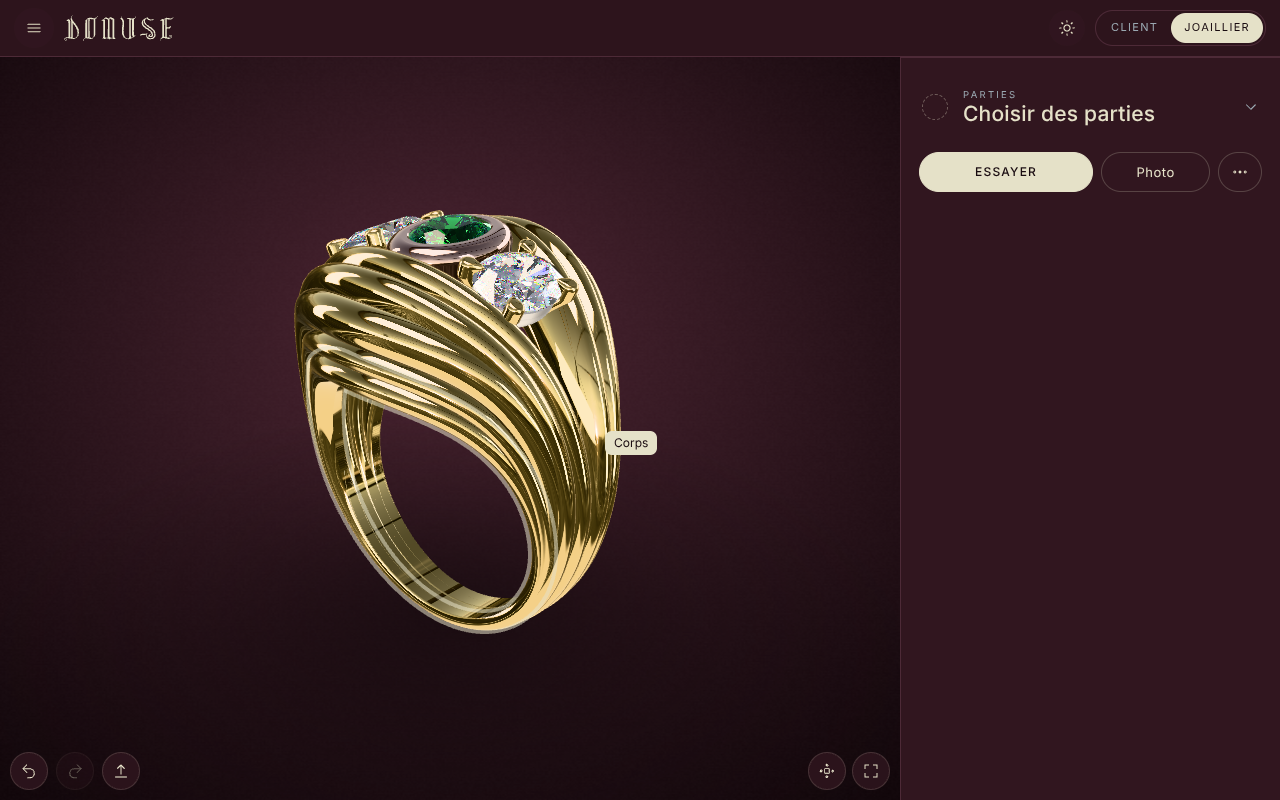
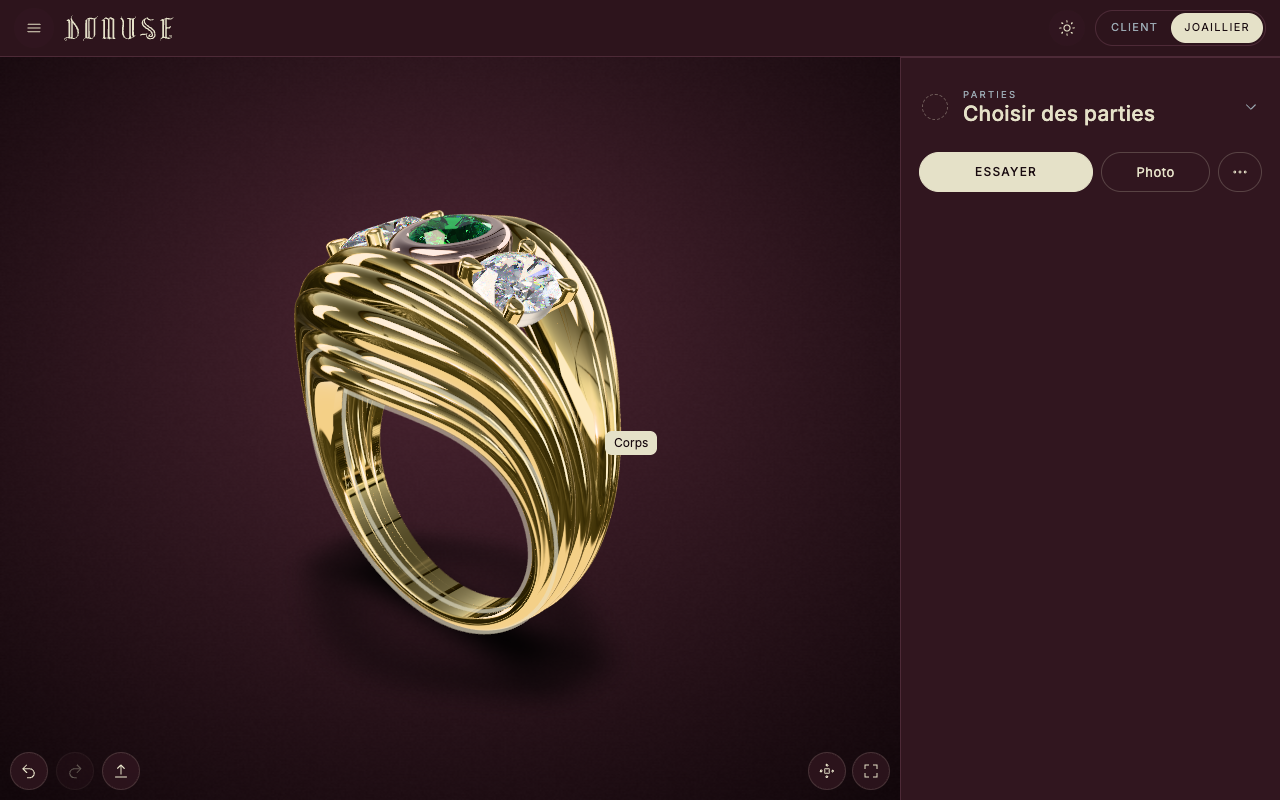
Aperçu client avec l'écrin (bouton Client) ; vignettes de projet toujours en 3/4

diff --git a/src/ui/ui.js b/src/ui/ui.js
@@ -1,7 +1,9 @@
 // Interface : mode Vitrine (acheteur / vendeur) et mode Atelier (designer). Mobile d'abord.
 import { t } from './i18n.js';
+import * as THREE from 'three';
 import { displayName } from '../cloud/name.js';
 import { workspaceBlocks, openInviteDialog, joinFlow } from './atelier.js';
+import { shouldPlayIntro, playIntro } from '../intro/intro.js';
 import { FEATURES } from '../config/features.js';
 import { CHANGELOG, CURRENT_VERSION, unseenEntries } from '../config/changelog.js';
 import { LANG } from './i18n.js';
@@ -477,7 +479,7 @@ export class UI {
       return;
     }
     const md = tgt.closest('.seg [data-mode]');
-    if (md) { this.setMode(md.dataset.mode); return; }
+    if (md) { this.userSetMode(md.dataset.mode); return; }
     const pb = tgt.closest('[data-pop-btn]');
     if (pb) { this.togglePop(pb.dataset.popBtn); return; }
     const vw = tgt.closest('[data-view]');
@@ -545,7 +547,7 @@ export class UI {
       case 'theme': this.toggleTheme(); break;
       case 'present': this.setPresent(this.el.dataset.present !== '1'); break;
       case 'present-exit': this.setPresent(false); break;
-      case 'exit-client': if (!this.locked) this.setMode(prefs.get('mode', 'vitrine') === 'atelier' ? 'atelier' : 'vitrine'); break;
+      case 'exit-client': if (!this.locked) { this.skipIntro?.(); this.setMode(prefs.get('mode', 'vitrine') === 'atelier' ? 'atelier' : 'vitrine'); } break;
       case 'dlg-close': this.dlg.close(); break;
       case 'zhide': { const z = app.zones.find((zz) => zz.pieceIds.some((id) => app.selection.has(id))); if (z) app.setHidden(z.pieceIds, !z.pieceIds.every((id) => app.hidden.has(id))); break; }
       case 'zsplit': { const z = app.zones.find((zz) => zz.pieceIds.some((id) => app.selection.has(id))); if (z) app.splitZone(z.id); break; }
@@ -605,6 +607,33 @@ export class UI {
     if (on && canFs) document.documentElement.requestFullscreen().catch(() => {});
     if (!on && document.fullscreenElement) document.exitFullscreen?.();
     for (const d of [50, 250]) setTimeout(() => this.app.viewer.resize(), d);
+  }
+
+  /**
+   * Bascule demandée par le joaillier (bouton Client / Joaillier). Vers « Client », l'écrin s'ouvre comme pour le client réel
+   * (vue d'accueil, bague assemblée, sans sélection) : le joaillier juge ainsi l'expérience complète. Retour au mode Joaillier : l'intro s'interrompt.
+   * `setMode` reste sans animation (appel programmatique, tests, ouverture d'un lien client).
+   */
+  userSetMode(m) {
+    if (m !== 'client') this.skipIntro?.();
+    const toClient = m === 'client' && this.mode !== 'client' && !this.locked;
+    this.setMode(m);
+    if (toClient) this.playClientIntro();
+  }
+
+  async playClientIntro() {
+    const app = this.app;
+    // demande explicite du joaillier : seul `?nointro` et la préférence « réduire les animations » l'écartent (pas la règle des captures de test)
+    const params = new URLSearchParams(); if (new URLSearchParams(location.search).has('nointro')) params.set('nointro', '1');
+    if (!app.model || this.introPlaying || !shouldPlayIntro(theme, params, false, true)) return;
+    this.introPlaying = true;
+    try {
+      app.exploder?.assembleNow?.(); app.clearSelection();                   // ce que voit le client : bague assemblée, rien de sélectionné
+      const v = app.viewer;
+      v.anim = null; v.controls.target.copy(v.box.getCenter(new THREE.Vector3())); v.setView([0.62, 0.45, 0.64], false); // vue d'accueil
+      await playIntro(app, this, theme);
+    } catch (e) { console.warn('Aperçu client : intro ignorée', e); }
+    finally { this.introPlaying = false; app.model && (app.model.root.visible = true); }
   }
 
   setMode(m) {
@@ -774,8 +803,8 @@ export class UI {
     if (!app.model || !s.last) return;
     const name = ($('[data-r=projname]', this.root).value || '').trim() || (app.model.meta.fileName || t('projectDefault')).replace(/\.[^.]+$/, '');
     try {
-      let thumb = null;
-      try { await withoutHighlight(app, async () => { thumb = await thumbnail(await app.viewer.capture({ scale: 1, background: BG[this.bg] })); }); } catch { /* vignette facultative */ }
+      let thumb = null; // vignette toujours en 3/4, quel que soit l'angle de la caméra du joaillier
+      try { await withoutHighlight(app, async () => { thumb = await thumbnail(await app.viewer.capture({ scale: 1, background: BG[this.bg], view: [0.62, 0.45, 0.64] })); }); } catch { /* vignette facultative */ }
       const id = asNew || !s.projectId ? newId() : s.projectId;
       await (await s.cloud()).projects.save({ id, name, modelName: s.last.name, modelId: app.modelId, options: s.options || {}, config: app.config(), env: app.viewer.envId, envRot: Math.round((app.viewer.scene.environmentRotation.y * 180) / Math.PI), thumb }, s.last.buffer);
       s.projectId = id;

diff --git a/src/core/viewer.js b/src/core/viewer.js
@@ -366,7 +366,10 @@ export class Viewer {
   }
 
   /** Capture PNG (échelle ×k, fond transparent ou rempli). Avec le pipeline : images cumulées + mise au point, comme à l'arrêt. */
-  async capture({ scale = 2, background = null } = {}) {
+  async capture({ scale = 2, background = null, view = null } = {}) {
+    // `view` (direction depuis la cible) : cadrage imposé le temps de la capture (ex. vignette en 3/4), caméra du joaillier restituée ensuite
+    const saved = view ? { pos: this.camera.position.clone(), target: this.controls.target.clone(), anim: this.anim } : null;
+    if (saved) { this.anim = null; this.controls.target.copy(this.box.getCenter(new THREE.Vector3())); this.setView(view, false); }
     const prevPR = this.renderer.getPixelRatio();
     const w = this.container.clientWidth, h = this.container.clientHeight;
     this.renderer.setPixelRatio(Math.min(scale, 3));
@@ -383,6 +386,7 @@ export class Viewer {
     ctx.drawImage(this.canvas, 0, 0);
     this.renderer.setPixelRatio(prevPR);
     this.renderer.setSize(w, h, false);
+    if (saved) { this.camera.position.copy(saved.pos); this.controls.target.copy(saved.target); this.anim = saved.anim; this.controls.update(); }
     this.fx?.reset();
     this.invalidate();
     return new Promise((res) => out.toBlob(res, 'image/png'));

diff --git a/src/intro/intro.js b/src/intro/intro.js
@@ -77,6 +77,7 @@ export async function playIntro(app, ui, theme) {
 
   const open = () => { if (state !== 'idle') return; state = 'anim'; t0 = performance.now(); hint.classList.add('gone'); startCam(); };
   const skip = () => { skipped = true; if (state === 'idle') state = 'anim'; t0 = performance.now() - 99999; hint.classList.add('gone'); };
+  ui.skipIntro = skip; // permet à l'interface d'interrompre l'introduction (ex. retour en mode Joaillier)
   // toucher la boîte (clic net, pas un glissé)
   let down = null;
   const pd = (e) => { down = { x: e.clientX, y: e.clientY }; };
@@ -139,6 +140,7 @@ export async function playIntro(app, ui, theme) {
     viewer.autoRotateEnabled = autoSave;
     viewer.controls.target.copy(finalTarget); viewer.camera.position.copy(finalPos); viewer.controls.update();
     hint.remove();
+    ui.skipIntro = null;
     delete ui.el.dataset.intro;
     viewer.invalidate();
     resolveDone();

diff --git a/src/config/changelog.js b/src/config/changelog.js
@@ -2,6 +2,17 @@
 // À chaque nouvelle version : ajouter une entrée ici (la fenêtre « Nouveautés » s'affiche une fois par visiteur).
 export const CHANGELOG = [
   {
+    version: '0.5.1', date: '2026-10-16',
+    fr: [
+      'Bouton « Client » : l’écrin s’ouvre comme pour votre client, pour juger son expérience complète',
+      'Les vignettes des projets enregistrés sont toujours en vue 3/4, quel que soit l’angle de la caméra',
+    ],
+    en: [
+      'Client button: the box opens just as it does for your client, so you can judge the full experience',
+      'Saved-project thumbnails are always a 3/4 view, whatever the camera angle',
+    ],
+  },
+  {
     version: '0.5.0', date: '2026-10-15',
     fr: [
       'Rendu plus net et plus stable : images cumulées à l’arrêt (arêtes fines lissées, éclats des pierres sans scintillement)',

diff --git a/tests/unit/changelog.test.js b/tests/unit/changelog.test.js
@@ -5,6 +5,6 @@ describe('changelog', () => {
   it('version courante = entrée la plus récente', () => expect(CURRENT_VERSION).toBe(CHANGELOG[0].version));
   it('rien à montrer si la version est déjà vue', () => expect(unseenEntries(CURRENT_VERSION)).toEqual([]));
   it('jamais vu : seulement la plus récente', () => expect(unseenEntries(null)).toEqual([CHANGELOG[0]]));
-  it('ancienne version : les entrées plus récentes', () => expect(unseenEntries('0.1.0').map((e) => e.version)).toEqual(['0.5.0', '0.4.0', '0.3.1', '0.3.0', '0.2.0']));
+  it('ancienne version : les entrées plus récentes', () => expect(unseenEntries('0.1.0').map((e) => e.version)).toEqual(['0.5.1', '0.5.0', '0.4.0', '0.3.1', '0.3.0', '0.2.0']));
   it('version inconnue plus récente : rien', () => expect(unseenEntries('9.9.9')).toEqual([]));
 });
